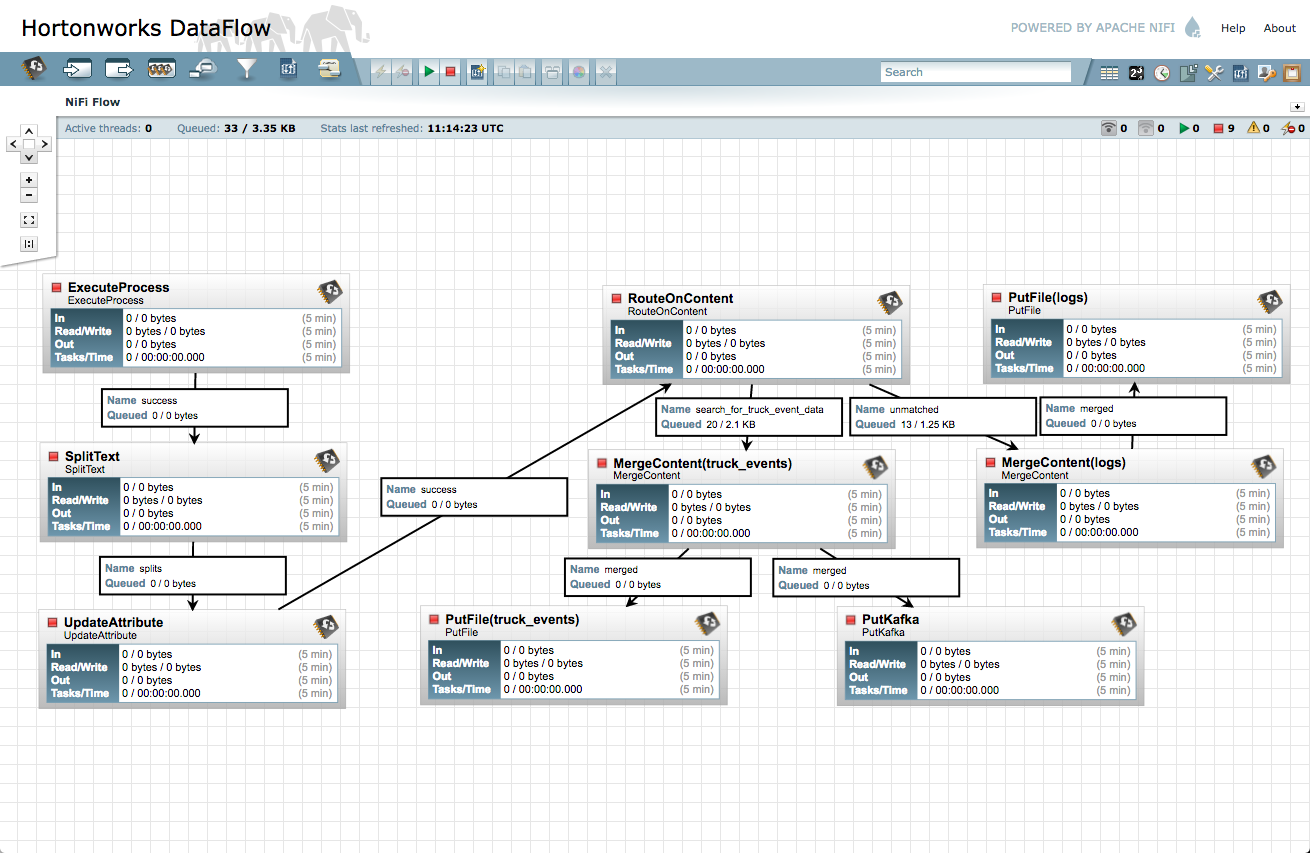
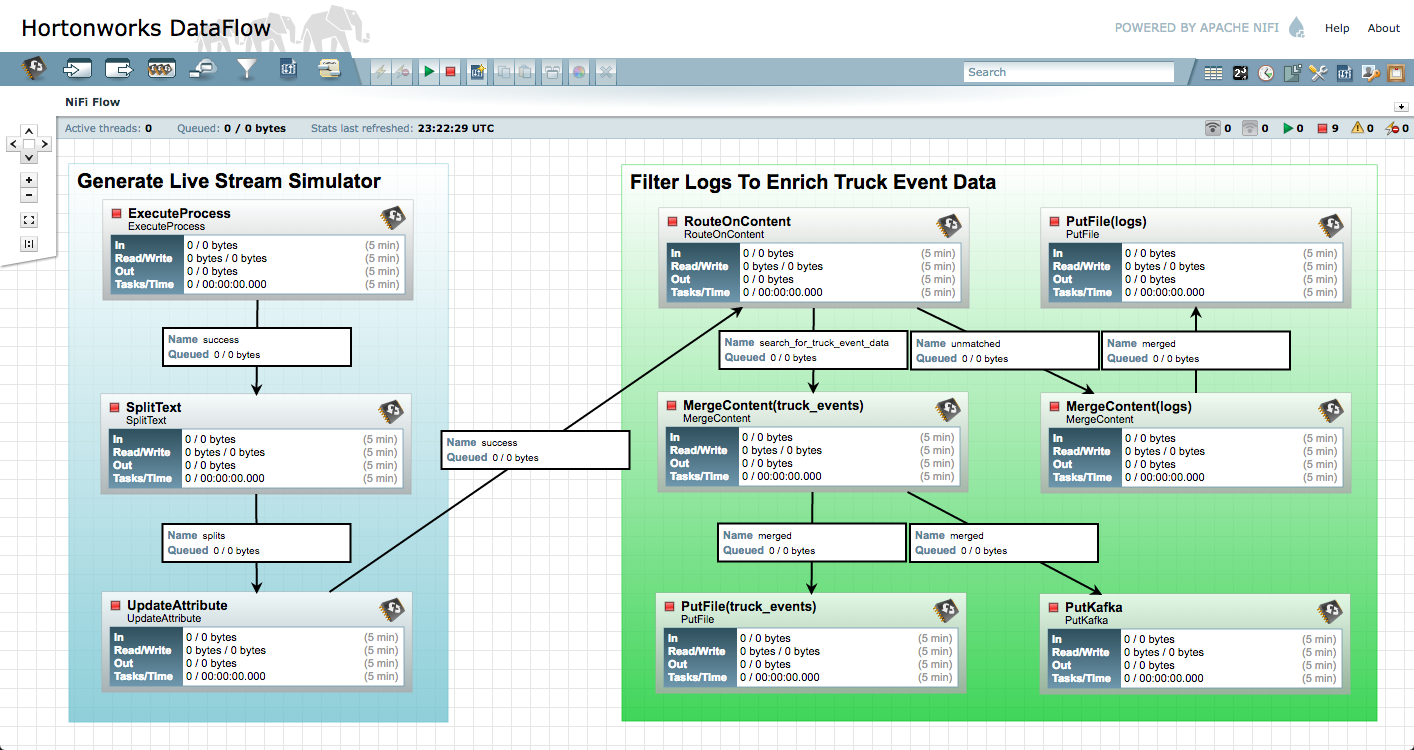
Updated IoT Lab Series
Added new image for complete data flow for IoT Lab Series

Fixed some formatting issues in lab 1 Kafka

Added cd ion-truck-streaming command in Step 3 of lab2 before user runs
install demo.sh script.

diff --git a/tutorials/hortonworks/realtime-event-processing-with-hdf/rtep-2.md b/tutorials/hortonworks/realtime-event-processing-with-hdf/rtep-2.md
@@ -187,9 +187,11 @@ Client Name = truck_events_client
 
 **Known Brokers** can be found in **Kafka** configs under listeners
 
-  **Topic Name** is the name you created earlier for Kafka. Type the following command to see your topic name: ./kafka-topics.sh --list --zookeeper localhost:2181.
-  The **Message Delimiter** set as "Shift+enter" in the value field makes each line of incoming FlowFile a single message, so kafka does not receive an enormous flowfile as a single message.
-  **Client Name** can be named to your liking, it is the name that is used when communicating with kafka.
+**Topic Name** is the name you created earlier for Kafka. Type the following command to see your topic name: ./kafka-topics.sh --list --zookeeper localhost:2181.
+
+**Message Delimiter** set as "Shift+enter" in the value field makes each line of incoming FlowFile a single message, so kafka does not receive an enormous flowfile as a single message.
+
+**Client Name** can be named to your liking, it is the name that is used when communicating with kafka.
 
 4\. Open the Configure Processor window again, navigate to the **Settings** tab. Set the **Auto termination relationship** to `success` and `failure`. Click **apply**.
 

diff --git a/tutorials/hortonworks/realtime-event-processing-with-hdf/rtep-3.md b/tutorials/hortonworks/realtime-event-processing-with-hdf/rtep-3.md
@@ -276,6 +276,7 @@ Press `esc` and then type `:wq` to exit the editor.
 2\. Now we can run the installdemo.sh script to automatically setup the background services for the trucking demo. Type the following command:
 
 ~~~
+cd iot-truck-streaming/
 ./installdemo.sh
 ~~~
 
